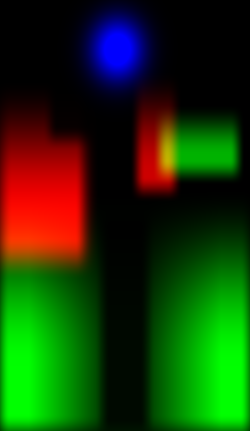
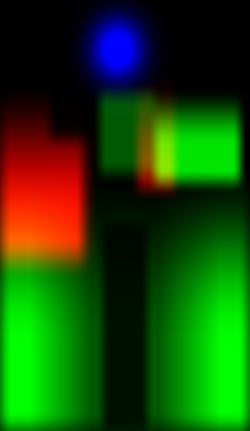
A12: cielo estrellado como A01 (estrellas pintadas que titilan y destellan) y ropa de Alaira con más movimiento
Claude-Session: https://claude.ai/code/session_01CL7wg269cKFeX8NUniz13e

diff --git a/kura/a01/js/a12.js b/kura/a01/js/a12.js
@@ -30,8 +30,8 @@ void main(){
   vec2 d=vec2(0.);
   d.x+=w.r*(5.5*sin(t*1.15+uv.y*9.)+1.8*sin(t*2.3+uv.y*17.));
   d.y+=w.r*1.4*sin(t*.9+uv.x*7.);
-  d.x+=w.g*(6.5*sin(t*1.25+uv.y*7.+uv.x*4.)+1.5*sin(t*2.1+uv.y*13.));
-  d.y+=w.g*2.2*cos(t*1.05+uv.x*6.);
+  d.x+=w.g*(11.*sin(t*1.25+uv.y*7.+uv.x*4.)+3.*sin(t*2.3+uv.y*13.-uv.x*5.)+1.2*sin(t*3.7+uv.y*21.));
+  d.y+=w.g*(4.*cos(t*1.05+uv.x*6.)+1.5*sin(t*2.6+uv.x*11.));
   d+=w.b*vec2(1.5*sin(t*.55)+look.x*3.,.9*sin(t*.8)+look.y*1.6);
   float br=smoothstep(.12,.22,uv.y)*(1.-smoothstep(.38,.52,uv.y));
   d.y+=br*1.5*sin(t*1.6);
@@ -83,48 +83,52 @@ function makeRig(canvas, imgs) {
   };
 }
 
-/* ---------- Cielo estrellado (como el de A01): estrellas que titilan, algunas con destello en cruz, y estrellas fugaces ---------- */
-// Viven en la capa del fondo (se mueven con ella) y solo en el cielo; se apartan de los dos planetas.
-const PLANETAS = [[0.75, 0.096, 0.14], [0.787, 0.172, 0.03]]; // [x, y, radio] en proporción del fondo (radio sobre el ancho)
+/* ---------- Cielo estrellado (como el de A01) ----------
+   El fondo trae su cielo pintado (vía láctea y estrellas, hecho con Higgsfield). Cada estrella pintada se detectó
+   (data/estrellas-a12.json: [x, y, tamaño] en proporción del fondo) y aquí cobra vida en su lugar: titila, las grandes
+   llevan destello en cruz y un destello óptico horizontal lento como los de A01; de vez en cuando cruza una fugaz. */
 function makeSky(canvas) {
   const g = canvas.getContext('2d');
-  let W = 1, H = 1, q = 1, stars = [], shoot = null, nextShoot = 0;
-  const dot = (() => { const c = document.createElement('canvas'); c.width = c.height = 64; const x = c.getContext('2d');
-    const r = x.createRadialGradient(32, 32, 0, 32, 32, 32); r.addColorStop(0, 'rgba(255,255,255,1)'); r.addColorStop(.12, 'rgba(255,244,255,.95)'); r.addColorStop(.3, 'rgba(214,190,255,.35)'); r.addColorStop(1, 'rgba(200,170,255,0)');
-    x.fillStyle = r; x.fillRect(0, 0, 64, 64); return c; })();
-  function seed() {
-    stars = [];
-    for (let i = 0; i < 260; i++) {
-      const x = Math.random(), y = Math.pow(Math.random(), 1.35) * 0.5;
-      if (PLANETAS.some(([px, py, pr]) => Math.hypot((x - px) * W, (y - py) * H) < pr * W * 1.05)) continue;
-      const big = Math.random() < 0.11;
-      stars.push({ x, y, s: big ? 2.2 + Math.random() * 1.6 : 0.6 + Math.random() * 1.1, ph: Math.random() * 6.3, f: 0.4 + Math.random() * 1.4, big, a: 0.45 + Math.random() * 0.55 });
-    }
-  }
+  let W = 1, H = 1, stars = [], shoot = null, nextShoot = 2500;
+  const sprite = (inner, outer) => { const c = document.createElement('canvas'); c.width = c.height = 64; const x = c.getContext('2d');
+    const r = x.createRadialGradient(32, 32, 0, 32, 32, 32); r.addColorStop(0, '#fff'); r.addColorStop(.1, inner); r.addColorStop(.32, outer); r.addColorStop(1, 'rgba(190,160,255,0)');
+    x.fillStyle = r; x.fillRect(0, 0, 64, 64); return c; };
+  const dot = sprite('rgba(255,246,255,.95)', 'rgba(214,186,255,.32)'), warm = sprite('rgba(255,236,214,.95)', 'rgba(255,200,230,.3)');
+  const streak = (() => { const c = document.createElement('canvas'); c.width = 256; c.height = 16; const x = c.getContext('2d');
+    const l = x.createLinearGradient(0, 0, 256, 0); l.addColorStop(0, 'rgba(200,170,255,0)'); l.addColorStop(.5, 'rgba(255,246,255,.9)'); l.addColorStop(1, 'rgba(200,170,255,0)');
+    const v = x.createLinearGradient(0, 0, 0, 16); v.addColorStop(0, 'rgba(0,0,0,0)'); v.addColorStop(.5, '#000'); v.addColorStop(1, 'rgba(0,0,0,0)');
+    x.fillStyle = l; x.fillRect(0, 0, 256, 16); x.globalCompositeOperation = 'destination-in'; x.fillStyle = v; x.fillRect(0, 0, 256, 16); return c; })();
+  fetch('data/estrellas-a12.json').then((r) => r.json()).then((list) => {
+    stars = list.map(([x, y, s]) => ({ x, y, s, big: s > 0.4, ph: Math.random() * 6.3, f: s > 0.4 ? 0.5 + Math.random() * 0.5 : 0.9 + Math.random() * 2.2,
+      sp: Math.random() < 0.3 ? warm : dot, fl: Math.random() * 6.3 }));
+  }).catch(() => {});
   function fit() {
     const r = canvas.getBoundingClientRect(); if (!r.width) return;
-    q = Math.min(2, devicePixelRatio || 1); const w = Math.round(r.width * q), h = Math.round(r.height * q);
-    if (canvas.width !== w || canvas.height !== h) { canvas.width = W = w; canvas.height = H = h; seed(); }
+    const q = Math.min(2, devicePixelRatio || 1); const w = Math.round(r.width * q), h = Math.round(r.height * q);
+    if (canvas.width !== w || canvas.height !== h) { canvas.width = W = w; canvas.height = H = h; }
   }
   function draw(now) {
     const t = now / 1000, u = W / 1000;
     g.setTransform(1, 0, 0, 1, 0, 0); g.clearRect(0, 0, W, H); g.globalCompositeOperation = 'lighter';
     for (const st of stars) {
-      const tw = 0.55 + 0.45 * Math.sin(t * st.f + st.ph), fade = 1 - Math.max(0, (st.y - 0.34) / 0.16);
-      const a = st.a * tw * fade; if (a <= 0.02) continue;
-      const s = st.s * u * 7 * (0.8 + 0.25 * tw);
-      g.globalAlpha = a; g.drawImage(dot, st.x * W - s / 2, st.y * H - s / 2, s, s);
-      if (st.big) { // destello en cruz, como los de A01
-        const L = s * 2.4 * tw; g.globalAlpha = a * 0.7; g.fillStyle = '#f3e8ff';
-        g.fillRect(st.x * W - L, st.y * H - 0.6 * u, L * 2, 1.2 * u); g.fillRect(st.x * W - 0.6 * u, st.y * H - L * 0.7, 1.2 * u, L * 1.4);
+      const x = st.x * W, y = st.y * H;
+      const tw = Math.pow(0.5 + 0.5 * Math.sin(t * st.f + st.ph), 1.6); // titileo marcado: casi se apaga y vuelve
+      const s = (st.big ? 26 + st.s * 22 : 9 + st.s * 16) * u * (0.75 + 0.45 * tw);
+      g.globalAlpha = 0.15 + 0.85 * tw; g.drawImage(st.sp, x - s / 2, y - s / 2, s, s);
+      if (st.big) {
+        // destello óptico horizontal lento (como A01) y cruz que respira
+        const k = 0.5 + 0.5 * Math.sin(t * 0.45 + st.fl), L = (55 + 50 * k) * u;
+        g.globalAlpha = 0.25 + 0.55 * k; g.drawImage(streak, x - L, y - 3 * u, L * 2, 6 * u);
+        const c = (24 + 14 * tw) * u; g.globalAlpha = 0.35 + 0.5 * tw; g.drawImage(streak, x - c / 2, y - 1.5 * u, c, 3 * u);
+        g.save(); g.translate(x, y); g.rotate(Math.PI / 2); g.drawImage(streak, -c * 0.4, -1.5 * u, c * 0.8, 3 * u); g.restore();
       }
     }
-    if (!shoot && now > nextShoot) { shoot = { x: 0.15 + Math.random() * 0.5, y: 0.04 + Math.random() * 0.14, t0: now }; nextShoot = now + 7000 + Math.random() * 9000; }
+    if (!shoot && now > nextShoot) { shoot = { x: 0.1 + Math.random() * 0.5, y: 0.03 + Math.random() * 0.15, t0: now }; nextShoot = now + 6000 + Math.random() * 8000; }
     if (shoot) {
       const e = (now - shoot.t0) / 1100; if (e > 1) shoot = null; else {
-        const x = (shoot.x + e * 0.32) * W, y = (shoot.y + e * 0.12) * H, len = 90 * u;
+        const x = (shoot.x + e * 0.32) * W, y = (shoot.y + e * 0.12) * H, len = 110 * u;
         const gr = g.createLinearGradient(x, y, x - len, y - len * 0.37); gr.addColorStop(0, 'rgba(255,250,255,.95)'); gr.addColorStop(1, 'rgba(210,180,255,0)');
-        g.globalAlpha = Math.sin(e * Math.PI); g.strokeStyle = gr; g.lineWidth = 1.6 * u; g.beginPath(); g.moveTo(x, y); g.lineTo(x - len, y - len * 0.37); g.stroke();
+        g.globalAlpha = Math.sin(e * Math.PI); g.strokeStyle = gr; g.lineWidth = 1.8 * u; g.beginPath(); g.moveTo(x, y); g.lineTo(x - len, y - len * 0.37); g.stroke();
       }
     }
     g.globalAlpha = 1; g.globalCompositeOperation = 'source-over';

diff --git a/kura/a01/README.md b/kura/a01/README.md
@@ -134,7 +134,7 @@ Se entra con «Continuar» u «Omitir» en A10; también con `#a11`. **Escenario
 ## A12 · Alaira, tu guía principal
 
 Se llega con «Saltar» en A11 («Iniciar el tour» queda pendiente hasta que exista toda la plataforma); también con `#a12`.
-- **Escenario propio** (`js/a12.js`): el jardín lunar de Alaira sin ella (`assets/a12/fondo.webp`) y Alaira de cuerpo completo con su outfit original, recortada encima (`alaira.webp`). Arte hecho con Higgsfield a partir de su personaje guardado («Alaira · KURA»); HD en `kura/diseno/A12/`.
+- **Escenario propio** (`js/a12.js`): el jardín lunar de Alaira sin ella (`assets/a12/fondo.webp`) y Alaira de cuerpo completo con su outfit original, recortada encima (`alaira.webp`), centrada y en primer plano. El cielo es como el de A01 (vía láctea violeta, hecho con Higgsfield): sus estrellas pintadas se detectaron (`data/estrellas-a12.json`) y cada una titila en su lugar; las grandes con cruz y destello óptico horizontal lento, y de vez en cuando cruza una estrella fugaz. Arte hecho con Higgsfield a partir de su personaje guardado («Alaira · KURA»); HD en `kura/diseno/A12/`.
 - **Animada al estilo Live2D** con WebGL sobre una sola imagen: un mapa de pesos (`pesos.png`: R cabello, G tela, B cabeza) decide cuánto se mueve cada zona; el cabello y las capas translúcidas de la falda ondean, el torso respira y la cabeza se balancea y sigue un poco el paralaje. Parpadeo natural con párpados generados con Higgsfield sobre su cara (`parpadeo-medio.png`, `parpadeo-cerrado.png`), a veces doble; al tocarla parpadea. La poción de su mano late con luz suave. Sin WebGL o con «Reducir efectos», queda la ilustración quieta.
 - **HUD**: «Tu guía principal · Alaira · Compasiva. Te acompaña cada día.» y seis funciones en cristal esmerilado (Afirmaciones de gratitud, Inteligencia emocional, Rituales de ritmo emocional, Soundscape y contemplación, Arcanos y tarot, Horóscopo del día), la línea «Tu camino: rachas, medallas, outfits y paisajes que desbloqueas» y el botón **Entrar al mundo de Alaira** (por ahora muestra un aviso, hasta que exista su mundo). Español e inglés. Cabe sin scroll en cualquier teléfono.
 
